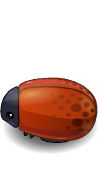
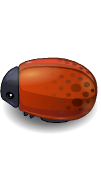
edit, rename images. initial gem placement

diff --git a/js/app.js b/js/app.js
@@ -1,9 +1,9 @@
 //images are 101x171, but overlap, from resources, find 83 as row interval
+//I wanted to position images nicely over tiles: tried an offset but didn't like the extra scripting required, so republished images to line up as desired without programmatic offsets
 
 //constants
 var ROWS = 6,
     COLS = 7,
-    TILES_TOP = 10, //for rendering tiles so that entities position better over tile
     TILE_HEIGHT = 171,
     ROW_HEIGHT = 83,
     COL_WIDTH = 101,
@@ -63,12 +63,34 @@ var game = (function() {
             for (row = 0; row < ROWS; row++) {
                 arr = [];
                 for (col = 0; col < COLS; col++) {
-                    arr.push([col*COL_WIDTH, row*ROW_HEIGHT + TILES_TOP, 0]); //x, y and whether occupied
-                    //arr.push([col*COL_WIDTH, row*ROW_HEIGHT, 0]); //x, y and whether occupied
+                    arr.push([col*COL_WIDTH, row*ROW_HEIGHT, 0]); //x, y and whether occupied
                 }
                 tileMatrix.push(arr.slice(0));
             }
         },
+
+        resetMatrix = function() {
+            var row, col;
+            for (row = 0; row < ROWS; row++) {
+                for (col = 0; col < COLS; col++) {
+                    tileMatrix[row][col][2] = 0; //set occupied to 0 for all tiles
+                }
+            }
+        },
+
+        matrixFull = function() {
+            var row, col, doOuterLoop = true; full = true;
+            for (row = 0; doOuterLoop && row < ROWS; row++) {
+                for (col = 0; col < COLS; col++) {
+                    if (!tileMatrix[row][col][2]) {
+                        full = false;
+                        doOuterLoop = false;
+                        break;
+                    }
+                }
+            }
+            return full;
+        }
 
         reset = function(delay) {
             setTimeout(start, delay);
@@ -90,6 +112,8 @@ var game = (function() {
             if (player.state === 'safe') {
                 var newIx, posWasWater = [], posWasDirt = [];
 
+                resetMatrix();
+
                 newIx = getRandomInt(1, COLS-1);
                 posWasWater.push(activeTiles[newIx].x);
                 posWasWater.push(activeTiles[newIx].y);
@@ -107,6 +131,7 @@ var game = (function() {
                 activeTiles[newIx].y = posWasDirt[1];
 
                 api.buildStones();
+                api.buildGems();
                 api.buildEnemies();
             }
 
@@ -123,11 +148,12 @@ var game = (function() {
 
             init: function() {
                 initMatrix();
-                console.log('tileMatrix:', tileMatrix);
+                //console.log('tileMatrix:', tileMatrix);
                 this.buildTiles();
                 this.buildHearts();
                 this.buildTexts();
                 this.buildStones();
+                this.buildGems();
                 player = new Player('images/char-boy.png');
                 this.buildEnemies();
 
@@ -175,9 +201,9 @@ var game = (function() {
             buildEnemies: function() {
                 allEnemies = []; //each call to buildEnemies refreshes enemies with new array
                 //TODO: make some more interesting way of determining how many enemies we have
-                console.log('buildEnemies, level:', level);
+                //console.log('buildEnemies, level:', level);
                 var n = (level < 3) ? 3 : 5;
-                n = 2;
+                n - 2;
                 for (var i = 0; i < n; i++) {
                     allEnemies.push(new Enemy('images/enemy-bug.png'));
                 }
@@ -185,16 +211,16 @@ var game = (function() {
 
             buildTexts: function() {
                 texts = {};
-                texts.score = new Text('Score: ', '0', (COLS - 3)*COL_WIDTH, 46);
-                texts.level = new Text('Level: ', '0', (COLS - 1)*COL_WIDTH, 46);
-                texts.timeRemaining = new Text('Time Remaining: ', '0:00', 0, (ROWS+2)*ROW_HEIGHT-36);
+                texts.score = new Text('Score: ', '0', (COLS - 3)*COL_WIDTH, 35);
+                texts.level = new Text('Level: ', '0', (COLS - 1)*COL_WIDTH, 35);
+                texts.timeRemaining = new Text('Time Remaining: ', '0:00', 0, (ROWS+2)*ROW_HEIGHT-45);
             },
 
             buildHearts: function() {
                 hearts = [];
                 var i,
                     x = 10,
-                    y = 10,
+                    y = 5,
                     w = 40;
                 for (i = 0; i < lives; i++) {
                    hearts.push(new Entity('images/heart-small.png', x, y));
@@ -204,17 +230,47 @@ var game = (function() {
 
             buildStones: function() {
                 stones = [];
-                var x, y, count = Math.floor(level/3);
+                var x, y, row, col, count = Math.floor(level/3);
 
                 for (i = 0; i < count; i++) {
                     x = getRandomInt(0, COLS) * COL_WIDTH;
-                    y = getRandomInt(1, ROWS-2) * ROW_HEIGHT - TILES_TOP,
+                    y = getRandomInt(1, ROWS-2) * ROW_HEIGHT;
                     xDirt = activeTiles[dirtIx].x,
                     yDirt = activeTiles[dirtIx].y;
+                    row = y/ROW_HEIGHT;
+                    col = x/COL_WIDTH;
+
+                    console.log('buildStones, col, row:', col, row);
 
                     //prevent stone from blocking path to dirt
-                    if (!(x === xDirt && y === yDirt - 2 * TILES_TOP + ROW_HEIGHT )) {
-                        stones.push(new Stone('images/Rock.png', x, y));
+                    if (!(x === xDirt && y === yDirt + ROW_HEIGHT )) {
+                        stones.push(new Stone('images/rock.png', x, y));
+                        tileMatrix[row][col][2] = 1; //mark tile occupied
+                    }
+                }
+            },
+
+            buildGems: function() {
+                gems = [];
+                var x, y, row, col, gemCount = 0, count = Math.floor(level/3);
+
+                while (gemCount < count) {
+                    //TODO: I don't like running matrixFull. come up with a way of limiting objects on tiles.
+                    //unlikely, but possible that tiles be covered entirely by objects. ensure program doesn't hang
+                    if (matrixFull()) break;
+
+                    x = getRandomInt(0, COLS) * COL_WIDTH;
+                    y = getRandomInt(1, ROWS-2) * ROW_HEIGHT;
+                    row = y/ROW_HEIGHT;
+                    col = x/COL_WIDTH;
+
+                    console.log('buildGems, col, row:', col, row);
+
+
+                    if (!tileMatrix[row][col][2]) {
+                        gems.push(new Gem('images/gem-green.png', x, y));
+                        tileMatrix[row][col][2] = 1; //mark tile occupied
+                        gemCount++;
                     }
                 }
             },
@@ -236,11 +292,8 @@ var game = (function() {
                 //top row, water and dirt. water is to be avoided, dirt is the destination.
                 for (col = 0; col < COLS; col++) {
                     if (col === dirtIx) {
-                        //activeTiles.push(new Dirt('images/dirt-block.png', col * COL_WIDTH, TILES_TOP));
-                        console.log('tileMatrix[col][0]:',tileMatrix[col][0]);
                         activeTiles.push(new Dirt('images/dirt-block.png', tileMatrix[0][col][0], tileMatrix[0][col][1]));
                     } else {
-                        //activeTiles.push(new Water('images/water-block.png', col * COL_WIDTH, TILES_TOP));
                         activeTiles.push(new Water('images/water-block.png', tileMatrix[0][col][0], tileMatrix[0][col][1]));
                     }
                 }
@@ -248,7 +301,6 @@ var game = (function() {
                 //remaining rows have no behavior
                 for (row = 1; row < ROWS; row++) {
                     for (col = 0; col < COLS; col++) {
-                        //tiles.push(new Entity(rowImages[row], col * COL_WIDTH, row * ROW_HEIGHT + TILES_TOP));
                         tiles.push(new Entity(rowImages[row], tileMatrix[row][col][0], tileMatrix[row][col][1]));
                     }
                 }
@@ -300,7 +352,7 @@ Water.prototype.constructor = Water;
 
 Water.prototype.update = function(dt) {
     //console.log('player:', player);
-    if (this.x === player.x && this.y === player.y+TILES_TOP && player.state !== 'drowned') game.drowned();
+    if (this.x === player.x && this.y === player.y && player.state !== 'drowned') game.drowned();
 }
 
 // Dirt is our player's destination
@@ -312,7 +364,7 @@ Dirt.prototype = Object.create(Entity.prototype);
 Dirt.prototype.constructor = Dirt;
 
 Dirt.prototype.update = function(dt) {
-    if (this.x === player.x && this.y === player.y+TILES_TOP && player.state !== 'safe') game.safe();
+    if (this.x === player.x && this.y === player.y && player.state !== 'safe') game.safe();
 }
 
 var Stone = function(img, x, y) {
@@ -323,7 +375,7 @@ Stone.prototype = Object.create(Entity.prototype);
 Stone.prototype.constructor = Stone;
 
 Stone.prototype.update = function(dt) {
-    if ((this.x === player.x) && (this.y+TILES_TOP === player.y)) player.blocked();
+    if ((this.x === player.x) && (this.y === player.y)) player.blocked();
 }
 
 var Gem = function(img, x, y) {
@@ -332,10 +384,10 @@ var Gem = function(img, x, y) {
 }
 
 Gem.prototype = Object.create(Entity.prototype);
-Gem.prototype.constructor = Stone;
+Gem.prototype.constructor = Gem;
 
 Gem.prototype.update = function(dt) {
-    //if (this.x+COL_WIDTH >= player.x && this.x <= player.x+COL_WIDTH && this.y+TILES_TOP === player.y && player.state !== 'eaten') game.gemAcquired();
+    //if (this.x+COL_WIDTH >= player.x && this.x <= player.x+COL_WIDTH && this.y === player.y && player.state !== 'eaten') game.gemAcquired();
 }
 
 // Enemies our player must avoid
@@ -361,7 +413,7 @@ Enemy.prototype.update = function(dt) {
     if (this.x > this.rightmost) this.setStartPosition();
 
     //console.log('player:', player);
-    if (this.x+COL_WIDTH >= player.x && this.x <= player.x+COL_WIDTH && this.y+TILES_TOP === player.y && player.state !== 'eaten') game.eaten();
+    if (this.x+COL_WIDTH >= player.x && this.x <= player.x+COL_WIDTH && this.y === player.y && player.state !== 'eaten') game.eaten();
 }
 
 Enemy.prototype.setSpeed = function() {
@@ -370,7 +422,7 @@ Enemy.prototype.setSpeed = function() {
 
 Enemy.prototype.setStartPosition = function() {
     this.x = getRandomInt(1, 4) * COL_WIDTH * -1; //off canvas to left
-    this.y = getRandomInt(1, 4) * ROW_HEIGHT - TILES_TOP; //any of the stone block tiled rows
+    this.y = getRandomInt(1, 4) * ROW_HEIGHT; //any of the stone block tiled rows
 }
 
 
@@ -419,7 +471,7 @@ Player.prototype.handleInput = function(k) {
             if (this.x < this.rightmost) this.x += COL_WIDTH;
             break;
         default:
-            console.log('unknown keycode, k:', k);
+            //console.log('unknown keycode, k:', k);
     }
 }
 

diff --git a/js/engine.js b/js/engine.js
@@ -150,6 +150,9 @@ var Engine = (function(global) {
         stones.forEach(function(stone){
             stone.render();
         });
+        gems.forEach(function(gem){
+            gem.render();
+        });
         allEnemies.forEach(function(enemy) {
             enemy.render();
         });
@@ -176,10 +179,14 @@ var Engine = (function(global) {
         'images/grass-block.png',
         'images/enemy-bug.png',
         'images/char-boy.png',
-        'images/Rock.png',
-        'images/Heart.png',
-        'images/heart-small.png'
+        'images/rock.png',
+        'images/heart.png',
+        'images/heart-small.png',
+        'images/gem-blue.png',
+        'images/gem-green.png',
+        'images/gem-orange.png'
     ]);
+
     Resources.onReady(init);
     //Resources.onReady(game.init);
 
